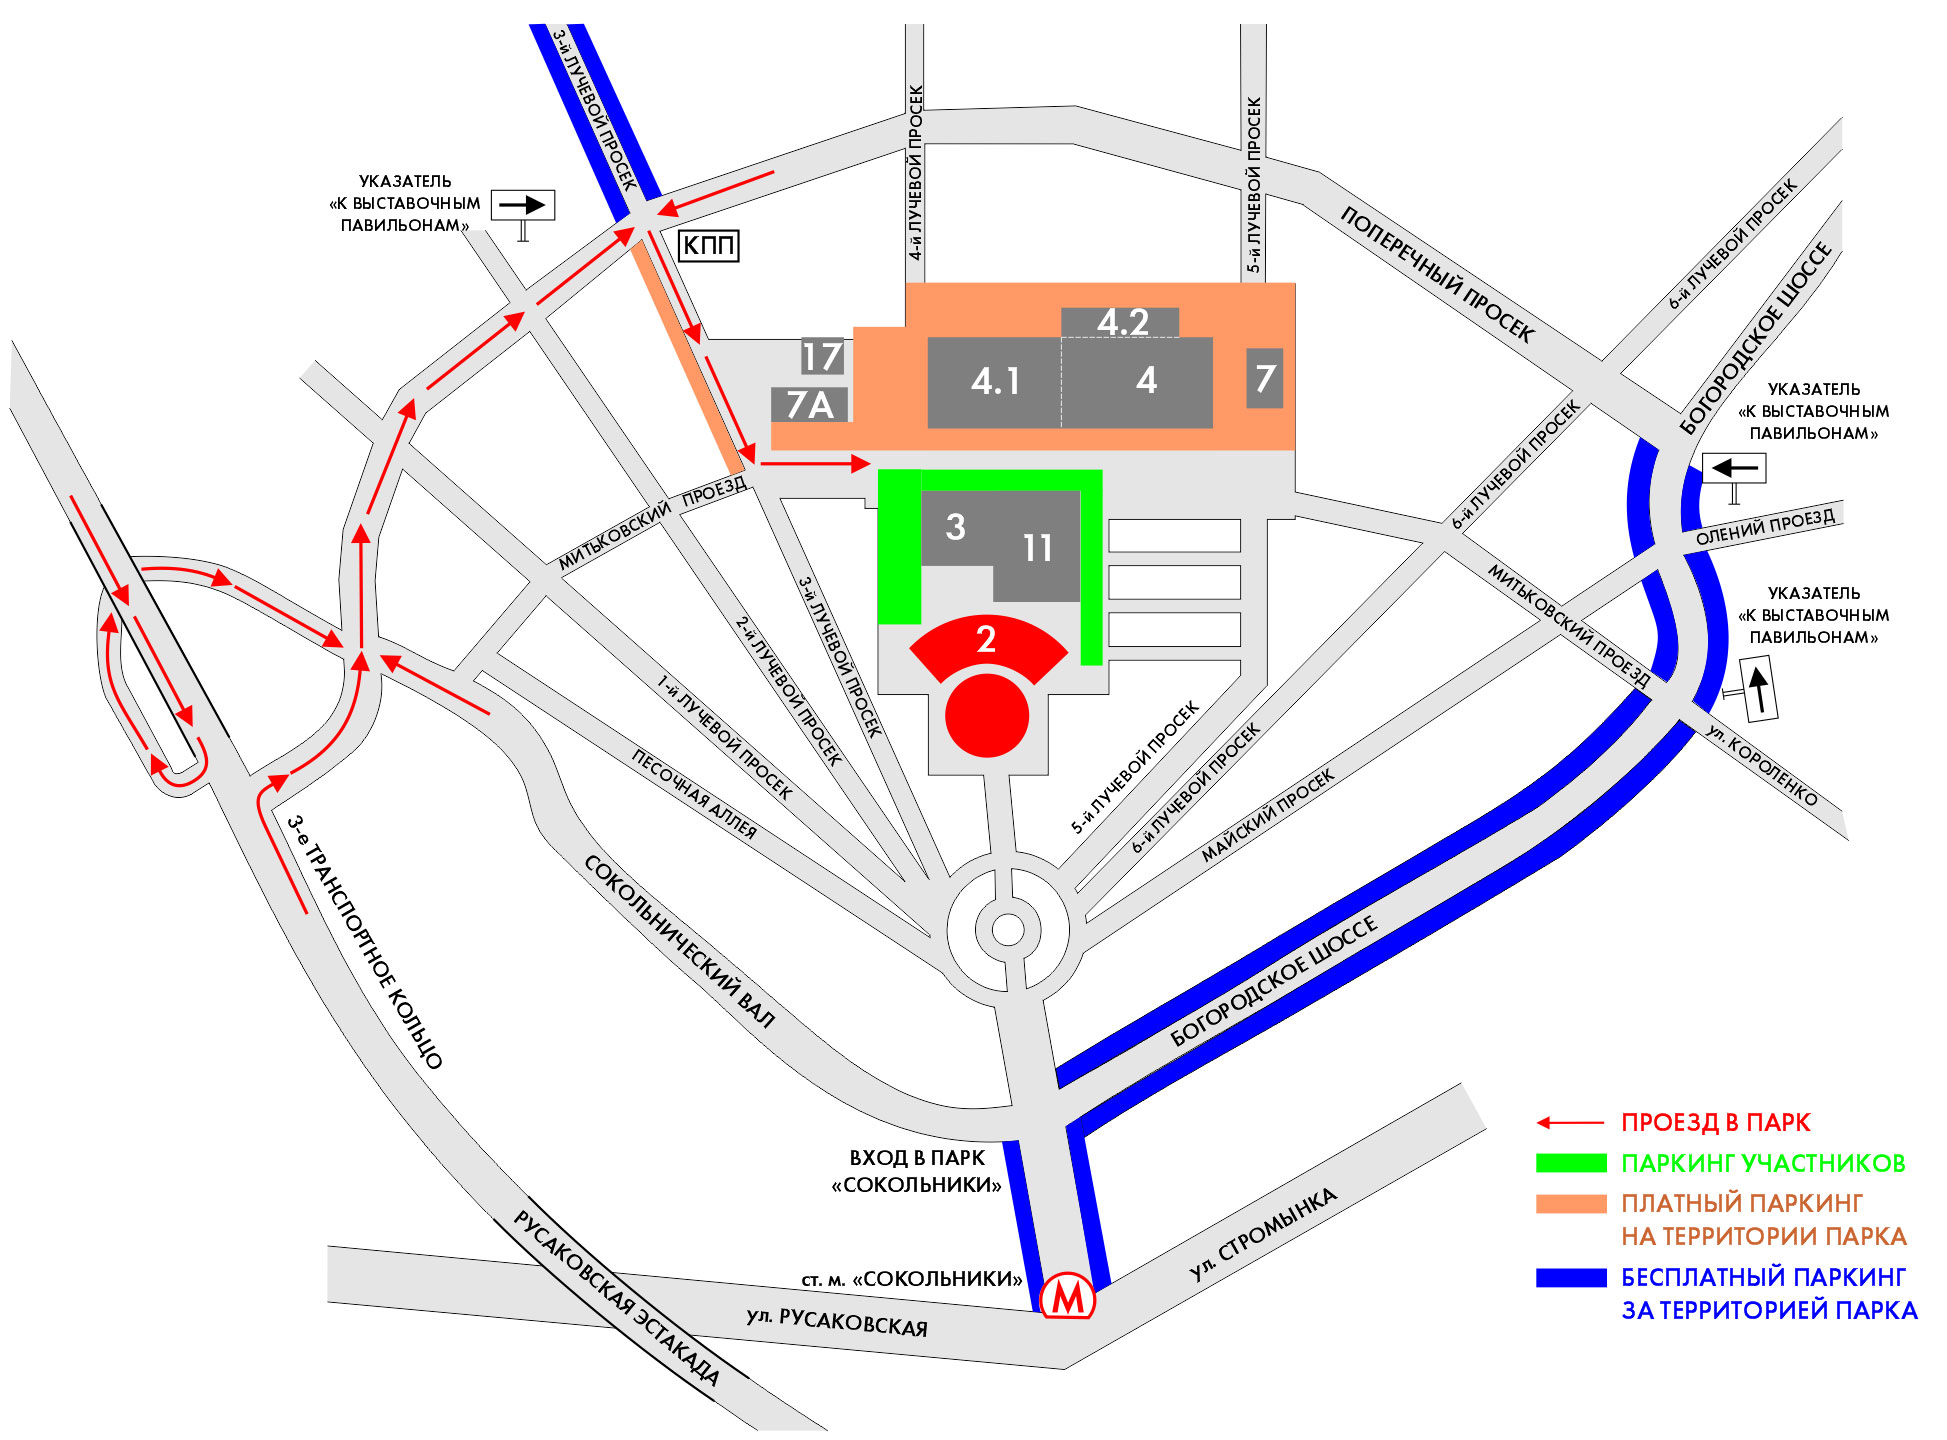
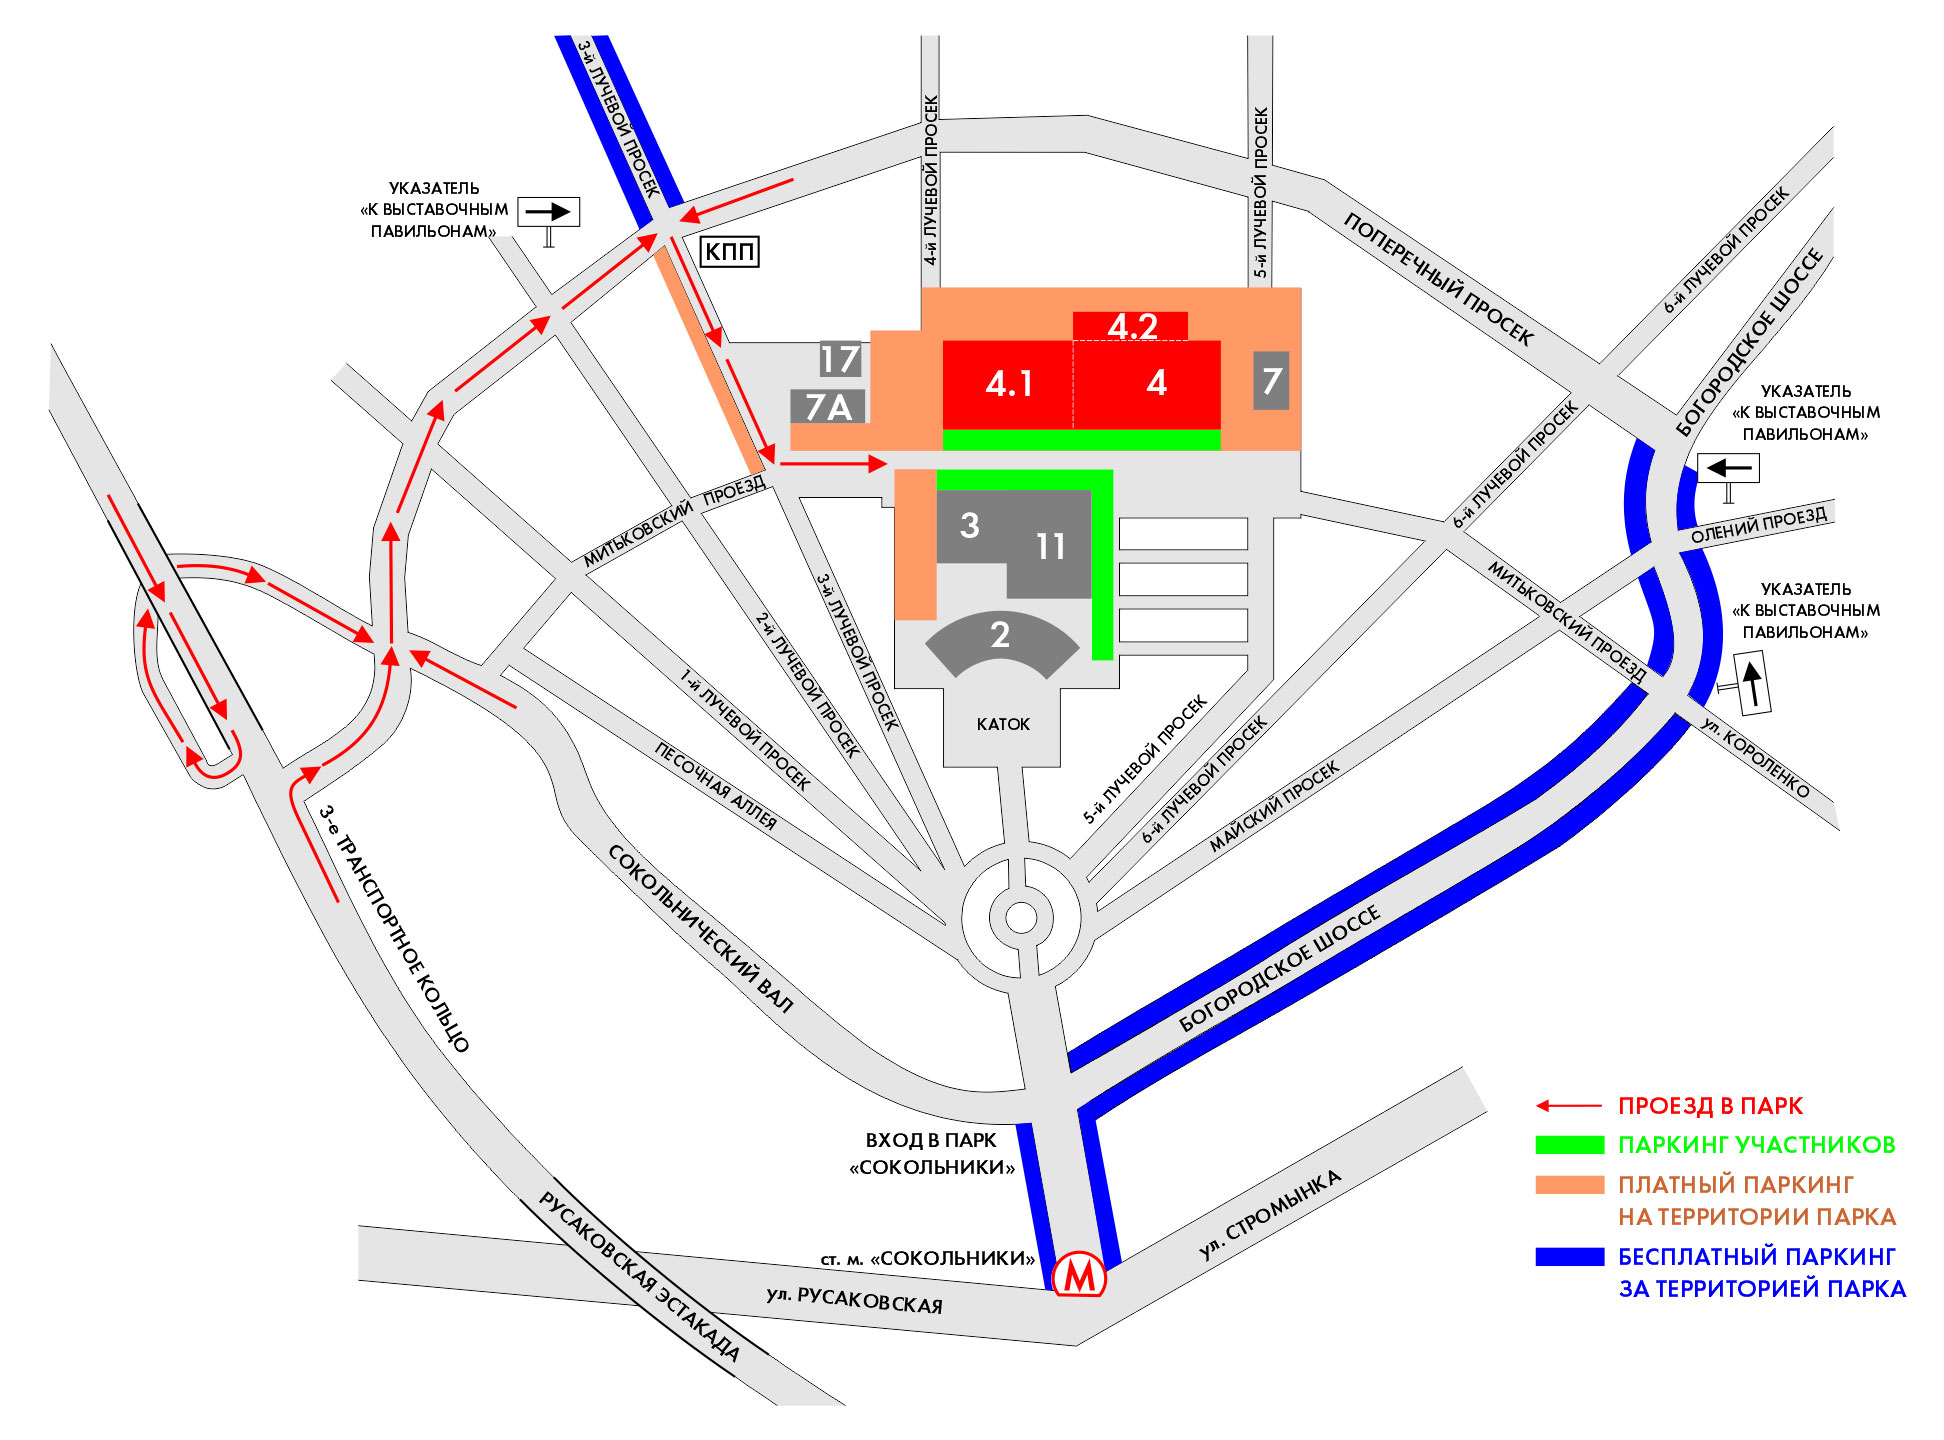
Changes

diff --git a/public_html/contacts/index.php b/public_html/contacts/index.php
@@ -51,7 +51,8 @@ $APPLICATION->SetTitle('Проезд / расписание / билеты');
     <div class="modal-content"><a data-dismiss="modal" href="#" class="close"></a>
       <h3 class="center">КАК ДОБРАТЬСЯ НА МЕТРО</h3>
       <div class="center">
-        <p>Выставочный центр располагается на территории парка «Сокольники», <br>в 10 минутах ходьбы от станции метро «Сокольники».</p><img src="/layout/images/metro.jpg">
+        <p>Выставочный центр располагается на территории парка «Сокольники», <br>в 10 минутах ходьбы от станции метро «Сокольники».</p>
+        <img src="/layout/images/zuzu_fuss.jpg">
       </div>
     </div>
   </div>
@@ -61,7 +62,12 @@ $APPLICATION->SetTitle('Проезд / расписание / билеты');
     <div class="modal-content"><a data-dismiss="modal" href="#" class="close"></a>
       <h3 class="center">СХЕМА ВЫСТАВОЧНОГО ЦЕНТРА С ПАРКОВКАМИ</h3>
       <div class="center">
-        <p>Выставочный центр предоставляет посетителям около 2000 паковочных машиномест.<br>Стоимость въезда на территорию КВЦ "Сокольники" и парковки – 250 руб.</p><img src="/layout/images/auto.jpg">
+          <p>
+              Заезд на автомобиле осуществляется через 3-й Лучевой просек.<br>
+              Въезд на территорию – 300 руб. <br>
+              Машину можно оставить на специально оборудованных паркингах.
+          </p>
+          <img src="/layout/images/auto.jpg">
       </div>
     </div>
   </div>
